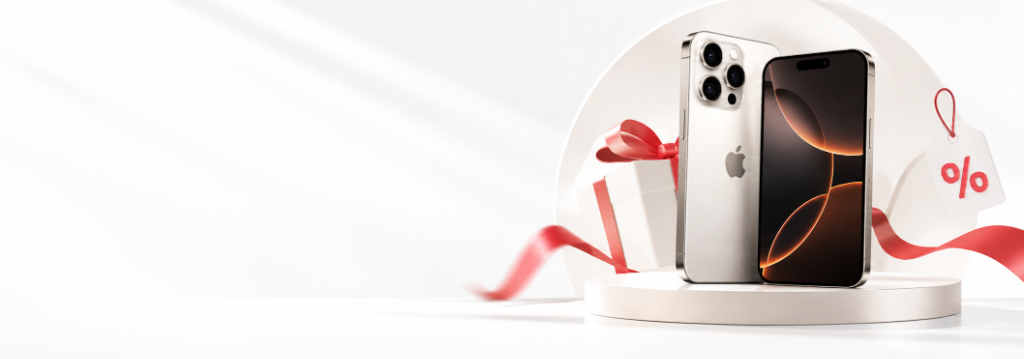
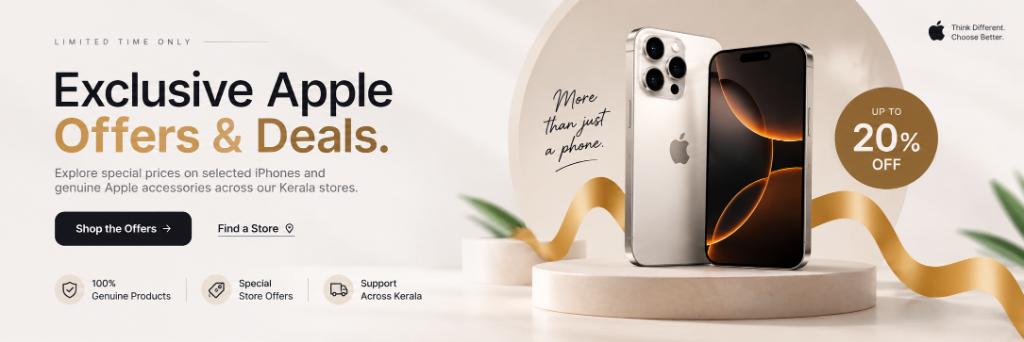
first commit

diff --git a/src/components/home/SpecialOffer.tsx b/src/components/home/SpecialOffer.tsx
@@ -1,6 +1,6 @@
 import React from 'react';
 import { Link } from 'react-router-dom';
-import { ArrowRight, Zap } from 'lucide-react';
+import { ArrowRight, MapPin, ShieldCheck, Tag, Headphones } from 'lucide-react';
 import { useScrollReveal } from '../../hooks/useScrollReveal';
 
 export const SpecialOffer: React.FC = () => {
@@ -9,48 +9,113 @@ export const SpecialOffer: React.FC = () => {
   return (
     <section ref={ref} className="py-10 sm:py-14 bg-white border-b border-zinc-200/60">
       <div className={`max-w-[1440px] mx-auto px-4 sm:px-8 lg:px-12 reveal-hidden ${isVisible ? 'reveal-visible' : ''}`}>
-        <div className="relative rounded-[24px] bg-white border border-zinc-200/80 overflow-hidden shadow-xs hover:shadow-md transition-shadow duration-300 min-h-[280px] sm:min-h-[320px] lg:min-h-[360px] flex items-center apple-reveal-card" style={{ transitionDelay: '0ms' }}>
+        
+        {/* Banner Card Container - Seamless Smooth Blended Background */}
+        <div className="relative rounded-[24px] bg-gradient-to-r from-[#FAFAF7] via-[#F4ECE0] to-[#EBE0D0] border border-zinc-200/90 overflow-hidden shadow-xs hover:shadow-md transition-shadow duration-300 min-h-[340px] sm:min-h-[380px] lg:min-h-[420px] flex items-center p-6 sm:p-10 lg:p-12 apple-reveal-card">
           
-          {/* Full Banner Background Image - Edge-to-Edge Integration */}
-          <img
-            src="/images/offers-banner-bg.png?v=2"
-            alt="M STORE Special Offers Banner"
-            className="absolute inset-0 w-full h-full object-cover object-right pointer-events-none select-none"
-          />
+          {/* 100% Seamless Soft Ambient Glow (NO HARD CIRCLE EDGE) */}
+          <div className="absolute inset-0 bg-[radial-gradient(circle_at_75%_50%,rgba(238,226,208,0.5)_0%,rgba(250,250,247,0)_70%)] pointer-events-none z-0" />
 
-          {/* Smooth White Gradient Overlay on Left Side for Crisp Text Readability */}
-          <div className="absolute inset-0 bg-gradient-to-r from-white via-white/85 sm:via-white/60 to-transparent w-full sm:w-3/5 lg:w-1/2 pointer-events-none" />
+          {/* Top Right Apple Tagline */}
+          <div className="hidden sm:flex absolute top-6 right-8 z-10 items-center gap-2 text-zinc-800">
+            <svg className="w-5 h-5 fill-current text-zinc-900" viewBox="0 0 170 170">
+              <path d="M150.37 130.25c-2.45 5.66-5.35 10.87-8.71 15.66-4.58 6.53-8.33 11.05-11.22 13.56-4.48 4.12-9.28 6.23-14.42 6.35-3.69 0-8.14-1.05-13.32-3.18-5.19-2.12-9.97-3.17-14.34-3.17-4.58 0-9.49 1.05-14.75 3.17-5.26 2.13-9.5 3.24-12.74 3.35-4.84.13-9.64-1.92-14.42-6.15-3.37-2.94-7.29-7.66-11.77-14.16-6.64-9.68-11.83-20.15-15.58-31.41-3.75-11.26-5.63-22.18-5.63-32.76 0-14.2 3.65-26.04 10.95-35.52 7.3-9.48 16.48-14.28 27.53-14.4 5.37 0 10.85 1.25 16.45 3.75 5.6 2.5 9.48 3.75 11.64 3.75 1.96 0 5.88-1.25 11.76-3.75 5.88-2.5 11.04-3.69 15.48-3.57 12.18.65 22.11 5.23 29.8 13.73-10.88 6.53-16.21 15.77-15.99 27.72.22 9.47 3.92 17.38 11.1 23.72 7.18 6.34 15.58 9.77 25.2 10.29-2.4 7.08-5.77 14.48-10.11 22.2zM119.22 31.84c0-6.86 2.45-13.43 7.35-19.71 4.9-6.28 11.14-10.02 18.72-11.23.11 1.09.16 2.07.16 2.94 0 6.75-2.5 13.37-7.51 19.85-5.01 6.48-11.21 10.23-18.6 11.25-.05-.87-.12-1.9-.12-3.1z"/>
+            </svg>
+            <div className="text-[10px] font-semibold text-zinc-600 leading-tight">
+              Think Different.<br />Choose Better.
+            </div>
+          </div>
 
-          {/* Content Area - Left-Aligned inside Container */}
-          <div className="relative z-10 p-6 sm:p-10 lg:p-12 max-w-xl lg:max-w-2xl space-y-4 text-left">
+          {/* Left Content Area */}
+          <div className="relative z-10 max-w-xl lg:max-w-2xl space-y-4 text-left">
             
-            {/* Badge */}
-            <div className="inline-flex items-center gap-2 px-3 py-1 rounded-full bg-[#E50914]/10 border border-[#E50914]/20 text-xs font-semibold text-[#E50914] uppercase tracking-[0.15em] apple-reveal-item" style={{ transitionDelay: '100ms' }}>
-              <Zap className="w-3.5 h-3.5 fill-current" />
-              <span>EXCLUSIVE OFFERS</span>
+            {/* Eyebrow */}
+            <div className="flex items-center gap-3 text-[11px] font-bold text-zinc-500 tracking-[0.22em] uppercase">
+              <span>LIMITED TIME ONLY</span>
+              <div className="h-[1px] w-12 bg-zinc-300" />
             </div>
 
-            {/* Main Heading */}
-            <h2 className="font-display text-3xl sm:text-4xl lg:text-[44px] font-bold text-zinc-950 tracking-tight leading-tight apple-reveal-item" style={{ transitionDelay: '180ms' }}>
-              Exclusive Offers & Deals.
+            {/* Title with Warm Gold Highlight */}
+            <h2 className="font-ds-quilter text-3xl sm:text-4xl lg:text-[46px] font-bold text-zinc-950 tracking-tight leading-[1.08]">
+              Exclusive Apple <br />
+              <span className="text-[#B5915D]">Offers & Deals.</span>
             </h2>
 
-            {/* Subtitle */}
-            <p className="text-sm sm:text-base text-zinc-600 font-normal max-w-md leading-relaxed apple-reveal-item" style={{ transitionDelay: '260ms' }}>
-              Explore curated promotional pricing on selected iPhones and genuine Apple accessories across our Kerala stores.
+            {/* Description */}
+            <p className="text-xs sm:text-sm lg:text-base text-zinc-600 font-medium max-w-md leading-relaxed">
+              Explore special prices on selected iPhones and genuine Apple accessories across our Kerala stores.
             </p>
 
-            {/* Action Button */}
-            <div className="pt-2 apple-reveal-item" style={{ transitionDelay: '340ms' }}>
+            {/* Buttons Row */}
+            <div className="pt-2 flex flex-wrap items-center gap-3 sm:gap-4">
               <Link
                 to="/offers"
-                className="inline-flex items-center justify-center gap-2 px-7 py-3.5 rounded-full sm:rounded-xl bg-[#E50914] text-white hover:bg-[#c90712] font-semibold text-sm shadow-md shadow-[#E50914]/25 hover:shadow-lg hover:-translate-y-0.5 transition-all duration-200"
+                className="inline-flex items-center justify-center gap-2 px-6 sm:px-7 py-3 sm:py-3.5 rounded-full bg-zinc-950 text-white hover:bg-zinc-800 font-semibold text-xs sm:text-sm shadow-md transition-all duration-200 hover:-translate-y-0.5"
               >
-                <span>View Offers</span>
+                <span>Shop the Offers</span>
                 <ArrowRight className="w-4 h-4" />
+              </Link>
+
+              <Link
+                to="/stores"
+                className="inline-flex items-center justify-center gap-1.5 px-4 py-3 text-xs sm:text-sm font-semibold text-zinc-800 hover:text-zinc-950 underline underline-offset-4 decoration-zinc-400 hover:decoration-zinc-800 transition-all"
+              >
+                <span>Find a Store</span>
+                <MapPin className="w-3.5 h-3.5" />
               </Link>
             </div>
 
+            {/* Bottom 3 Badges */}
+            <div className="pt-4 sm:pt-6 flex flex-wrap items-center gap-4 sm:gap-6 border-t border-zinc-200/80 text-zinc-800">
+              <div className="flex items-center gap-2">
+                <div className="w-7 h-7 rounded-full bg-white border border-zinc-200 flex items-center justify-center shrink-0">
+                  <ShieldCheck className="w-3.5 h-3.5 text-zinc-800" />
+                </div>
+                <div className="text-[10.5px] font-bold leading-tight">
+                  100%<br />Genuine Products
+                </div>
+              </div>
+
+              <div className="h-6 w-[1px] bg-zinc-200 hidden sm:block" />
+
+              <div className="flex items-center gap-2">
+                <div className="w-7 h-7 rounded-full bg-white border border-zinc-200 flex items-center justify-center shrink-0">
+                  <Tag className="w-3.5 h-3.5 text-zinc-800" />
+                </div>
+                <div className="text-[10.5px] font-bold leading-tight">
+                  Special<br />Store Offers
+                </div>
+              </div>
+
+              <div className="h-6 w-[1px] bg-zinc-200 hidden sm:block" />
+
+              <div className="flex items-center gap-2">
+                <div className="w-7 h-7 rounded-full bg-white border border-zinc-200 flex items-center justify-center shrink-0">
+                  <Headphones className="w-3.5 h-3.5 text-zinc-800" />
+                </div>
+                <div className="text-[10.5px] font-bold leading-tight">
+                  Support<br />Across Kerala
+                </div>
+              </div>
+            </div>
+
+          </div>
+
+          {/* Right Product Image & Discount Badge (Vector Sharp) */}
+          <div className="hidden lg:flex absolute right-4 xl:right-12 bottom-0 top-0 w-[45%] items-center justify-center pointer-events-none z-10">
+            {/* Discount Circular Badge */}
+            <div className="absolute right-4 xl:right-8 top-1/2 -translate-y-12 w-28 h-28 rounded-full bg-gradient-to-br from-[#A88247] to-[#8C6B37] text-white flex flex-col items-center justify-center shadow-lg border-2 border-white/60 z-20">
+              <span className="text-[10px] uppercase font-semibold tracking-wider opacity-90">UP TO</span>
+              <span className="text-2xl font-black leading-none">20%</span>
+              <span className="text-[11px] font-bold uppercase tracking-wider">OFF</span>
+            </div>
+
+            {/* High-Res Crisp iPhone Image (Increased by another 15px) */}
+            <img
+              src="/images/hero-object.png"
+              alt="M STORE Special Offers iPhone"
+              className="w-full max-w-[405px] h-auto object-contain drop-shadow-[0_20px_40px_rgba(0,0,0,0.15)] origin-bottom"
+            />
           </div>
 
         </div>

diff --git a/src/components/home/Hero.tsx b/src/components/home/Hero.tsx
@@ -6,17 +6,16 @@ export const Hero: React.FC = () => {
     <section className="relative min-h-[82vh] sm:min-h-[85vh] lg:h-screen lg:min-h-[100dvh] w-full overflow-hidden bg-[#FAF9F6] border-b border-zinc-200/60 flex flex-col justify-between">
 
       {/* =====================================================
-          SOFT AMBIENT BACKGROUND GLOW (BEHIND PNG PRODUCT)
+          SOFT AMBIENT BACKGROUND GLOW (100% SEAMLESS BLEND - NO HARD CIRCLE)
       ====================================================== */}
       <div
         className="
           absolute
-          right-[5%] lg:right-[8%]
-          bottom-[2%] lg:bottom-[4%]
-          w-[320px] sm:w-[460px] lg:w-[560px]
-          h-[320px] sm:h-[460px] lg:h-[560px]
-          rounded-full
-          bg-[radial-gradient(circle,rgba(245,230,210,0.45)_0%,rgba(250,249,246,0)_70%)]
+          right-0
+          bottom-0
+          w-[60%]
+          h-full
+          bg-[radial-gradient(circle_at_75%_70%,rgba(245,230,210,0.35)_0%,rgba(250,249,246,0)_70%)]
           pointer-events-none
           z-0
         "
@@ -25,7 +24,7 @@ export const Hero: React.FC = () => {
       {/* =====================================================
           DESKTOP RIGHT SIDE TRANSPARENT PRODUCT PNG IMAGE (SCALED DOWN SLIGHTLY - 20px REDUCED)
       ====================================================== */}
-      <div className="hidden lg:flex absolute right-0 bottom-0 top-[152px] lg:top-[152px] xl:top-[136px] w-[50%] xl:w-[54%] items-end justify-end pr-4 xl:pr-8 pointer-events-none z-10">
+      <div className="hidden lg:flex absolute right-0 bottom-0 top-[144px] lg:top-[144px] xl:top-[128px] w-[50%] xl:w-[54%] items-end justify-end pr-4 xl:pr-8 pointer-events-none z-10">
         <img
           src="/images/hero-object.png"
           alt="M Store iPhone 16 Pro"
@@ -34,7 +33,7 @@ export const Hero: React.FC = () => {
       </div>
 
       {/* =====================================================
-          HERO CONTENT CONTAINER (ADDITIONAL 20px GAP BELOW NAVBAR)
+          HERO CONTENT CONTAINER (REDUCED 8px GAP BELOW NAVBAR)
       ====================================================== */}
       <div
         className="
@@ -43,7 +42,7 @@ export const Hero: React.FC = () => {
           w-full max-w-[1800px]
           items-center justify-between
           px-5 sm:px-[6.5vw]
-          pt-[136px] sm:pt-[152px] lg:pt-[136px]
+          pt-[128px] sm:pt-[144px] lg:pt-[128px]
           pb-2 lg:pb-4
         "
       >
@@ -87,9 +86,9 @@ export const Hero: React.FC = () => {
               leading-[1.0] sm:leading-[0.98]
               tracking-tight
               text-zinc-950
-              sm:text-[61px]
-              lg:text-[74px]
-              xl:text-[84px]
+              sm:text-[54px]
+              lg:text-[62px]
+              xl:text-[70px]
               animate-hero-text-smooth apple-delay-150
             "
           >

diff --git a/src/components/home/ShopByCategory.tsx b/src/components/home/ShopByCategory.tsx
@@ -33,7 +33,7 @@ export const ShopByCategory: React.FC = () => {
   ];
 
   return (
-    <section ref={ref} className="py-10 sm:py-14 lg:py-20 bg-[#FAF9F6] border-b border-zinc-200/60" id="categories">
+    <section ref={ref} className="py-10 sm:py-14 lg:py-[70px] bg-[#FAF9F6] border-b border-zinc-200/60" id="categories">
       <div className={`max-w-[1280px] mx-auto px-4 sm:px-6 lg:px-8 reveal-hidden ${isVisible ? 'reveal-visible' : ''}`}>
         
         {/* Section Heading - Compact Height */}
@@ -41,7 +41,7 @@ export const ShopByCategory: React.FC = () => {
           <span className="text-[11px] font-extrabold text-[#E50914] tracking-[0.28em] uppercase block">
             SHOP BY
           </span>
-          <h2 className="font-display text-2xl sm:text-3xl lg:text-4xl font-extrabold text-zinc-950 tracking-tight leading-none pt-0.5">
+          <h2 className="font-ds-quilter text-2xl sm:text-3xl lg:text-4xl font-extrabold text-zinc-950 tracking-tight leading-none pt-0.5">
             Categories
           </h2>
           <div className="w-8 h-[2.5px] bg-[#E50914] mx-auto mt-2 rounded-full" />

diff --git a/src/components/home/FeaturedProducts.tsx b/src/components/home/FeaturedProducts.tsx
@@ -23,7 +23,7 @@ export const FeaturedProducts: React.FC<FeaturedProductsProps> = ({ products, lo
   }).slice(0, 8);
 
   return (
-    <section ref={ref} className="py-12 sm:py-16 relative overflow-hidden bg-[#FAF9F6]">
+    <section ref={ref} className="py-10 sm:py-14 lg:py-[54px] relative overflow-hidden bg-[#FAF9F6]">
       <div className={`max-w-[1440px] mx-auto px-4 sm:px-8 lg:px-12 space-y-8 relative z-10 reveal-hidden ${isVisible ? 'reveal-visible' : ''}`}>
         
         {/* Header Row */}
@@ -34,7 +34,7 @@ export const FeaturedProducts: React.FC<FeaturedProductsProps> = ({ products, lo
             <span className="text-[11px] font-semibold text-[#E50914] uppercase tracking-[0.2em] block">
               FEATURED COLLECTION
             </span>
-            <h2 className="font-display text-3xl sm:text-4xl font-bold text-zinc-950 tracking-tight">
+            <h2 className="font-ds-quilter text-3xl sm:text-4xl font-bold text-zinc-950 tracking-tight">
               The Latest iPhones
             </h2>
             <p className="text-xs sm:text-sm text-zinc-600 font-normal leading-relaxed">

diff --git a/src/components/home/AccessoriesSection.tsx b/src/components/home/AccessoriesSection.tsx
@@ -76,7 +76,7 @@ export const AccessoriesSection: React.FC = () => {
   };
 
   return (
-    <section ref={ref} className="py-10 sm:py-14 bg-white border-b border-zinc-200/60">
+    <section ref={ref} className="py-9 sm:py-12 lg:py-11 bg-white border-b border-zinc-200/60">
       <div className={`max-w-[1440px] mx-auto px-4 sm:px-8 lg:px-12 space-y-7 reveal-hidden ${isVisible ? 'reveal-visible' : ''}`}>
         
         {/* Section Header */}
@@ -85,7 +85,7 @@ export const AccessoriesSection: React.FC = () => {
             <span className="text-[11px] font-semibold text-[#E50914] uppercase tracking-[0.2em] block">
               APPLE ESSENTIALS
             </span>
-            <h2 className="font-display text-3xl sm:text-4xl font-bold text-zinc-950 tracking-tight">
+            <h2 className="font-ds-quilter text-3xl sm:text-4xl font-bold text-zinc-950 tracking-tight">
               Complete Your Setup.
             </h2>
             <p className="text-xs sm:text-sm text-zinc-600 font-normal leading-relaxed max-w-lg">

diff --git a/src/components/product/ProductCard.tsx b/src/components/product/ProductCard.tsx
@@ -90,7 +90,7 @@ export const ProductCard: React.FC<ProductCardProps> = ({ product }) => {
         {/* Title & Storage / Color Metadata */}
         <div>
           <Link to={`/product/${product.id}`} className="group-hover:text-[#E50914] transition-colors">
-            <h3 className="font-display font-semibold text-[13px] sm:text-[17px] text-zinc-950 tracking-tight leading-snug line-clamp-1">
+            <h3 className="font-sans font-semibold text-[13px] sm:text-[17px] text-zinc-950 tracking-tight leading-snug line-clamp-1">
               {product.name}
             </h3>
           </Link>

diff --git a/src/pages/ProductDetails/index.tsx b/src/pages/ProductDetails/index.tsx
@@ -113,7 +113,7 @@ export const ProductDetailsPage: React.FC = () => {
           {/* Title & Finish */}
           <div className="flex items-start justify-between gap-4">
             <div>
-              <h1 className="font-display text-2xl sm:text-3xl lg:text-[32px] font-bold text-zinc-950 tracking-tight leading-tight">
+              <h1 className="font-sans text-2xl sm:text-3xl lg:text-[32px] font-bold text-zinc-950 tracking-tight leading-tight">
                 {product.name}
               </h1>
               <p className="text-xs text-zinc-500 font-medium mt-1">

diff --git a/src/components/home/StoreLocationsSection.tsx b/src/components/home/StoreLocationsSection.tsx
@@ -56,7 +56,7 @@ export const StoreLocationsSection: React.FC = () => {
             </div>
 
             {/* Main Headline with Accent Color */}
-            <h2 className="font-display text-3xl sm:text-4xl lg:text-[46px] font-black text-zinc-950 tracking-tight leading-[1.06]">
+            <h2 className="font-ds-quilter text-3xl sm:text-4xl font-bold text-zinc-950 tracking-tight leading-[1.06]">
               Visit an <br />
               <span className="text-[#B5915D]">M Store</span> <br />
               Near You.

diff --git a/src/index.css b/src/index.css
@@ -38,8 +38,13 @@
     overflow-x: hidden;
   }
 
-  h1, h2, h3, h4, .font-display {
+  .font-section-heading,
+  .font-ds-quilter {
     font-family: 'DS Quilter', 'IvyPresto', 'ivypresto-display', 'IvyPresto Display', 'Playfair Display', 'Cormorant Garamond', Georgia, serif;
+  }
+
+  h1, h2, h3, h4, h5, h6 {
+    font-family: 'Inter', 'Plus Jakarta Sans', system-ui, -apple-system, sans-serif;
   }
 }
 

diff --git a/src/components/layout/Footer.tsx b/src/components/layout/Footer.tsx
@@ -47,7 +47,7 @@ export const Footer: React.FC = () => {
                 </div>
               </Link>
 
-              <h3 className="text-xl font-black text-zinc-900 tracking-tight leading-snug">
+              <h3 className="text-xl font-bold text-zinc-900 tracking-tight leading-snug">
                 More Than Just <span className="text-[#E50914]">iPhones.</span>
               </h3>
 
